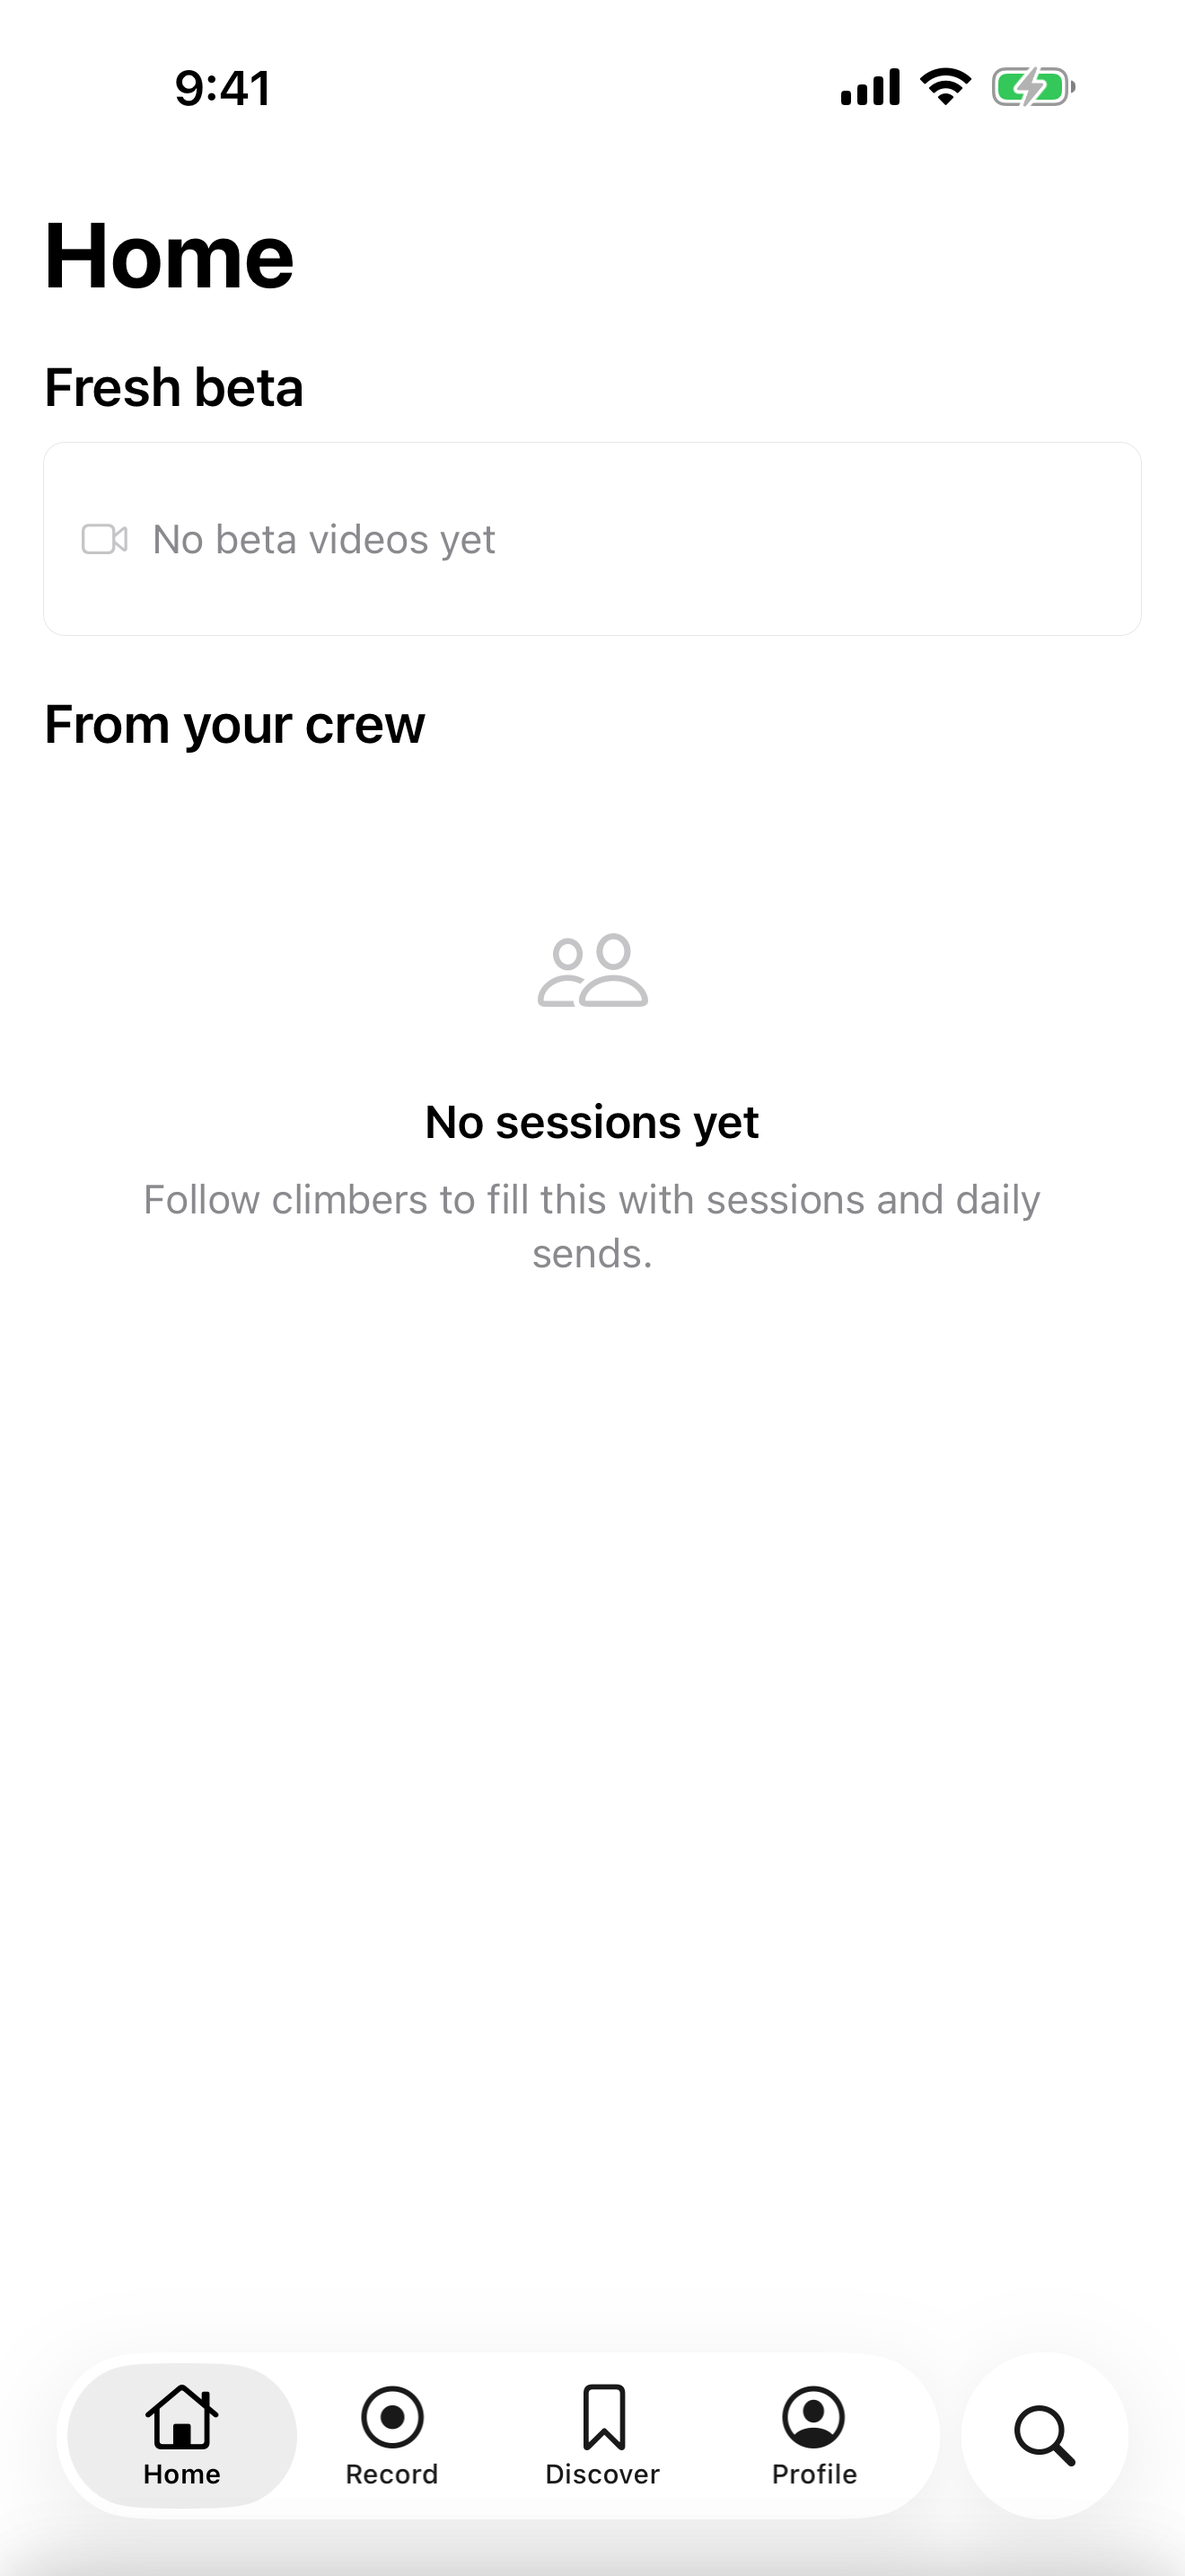
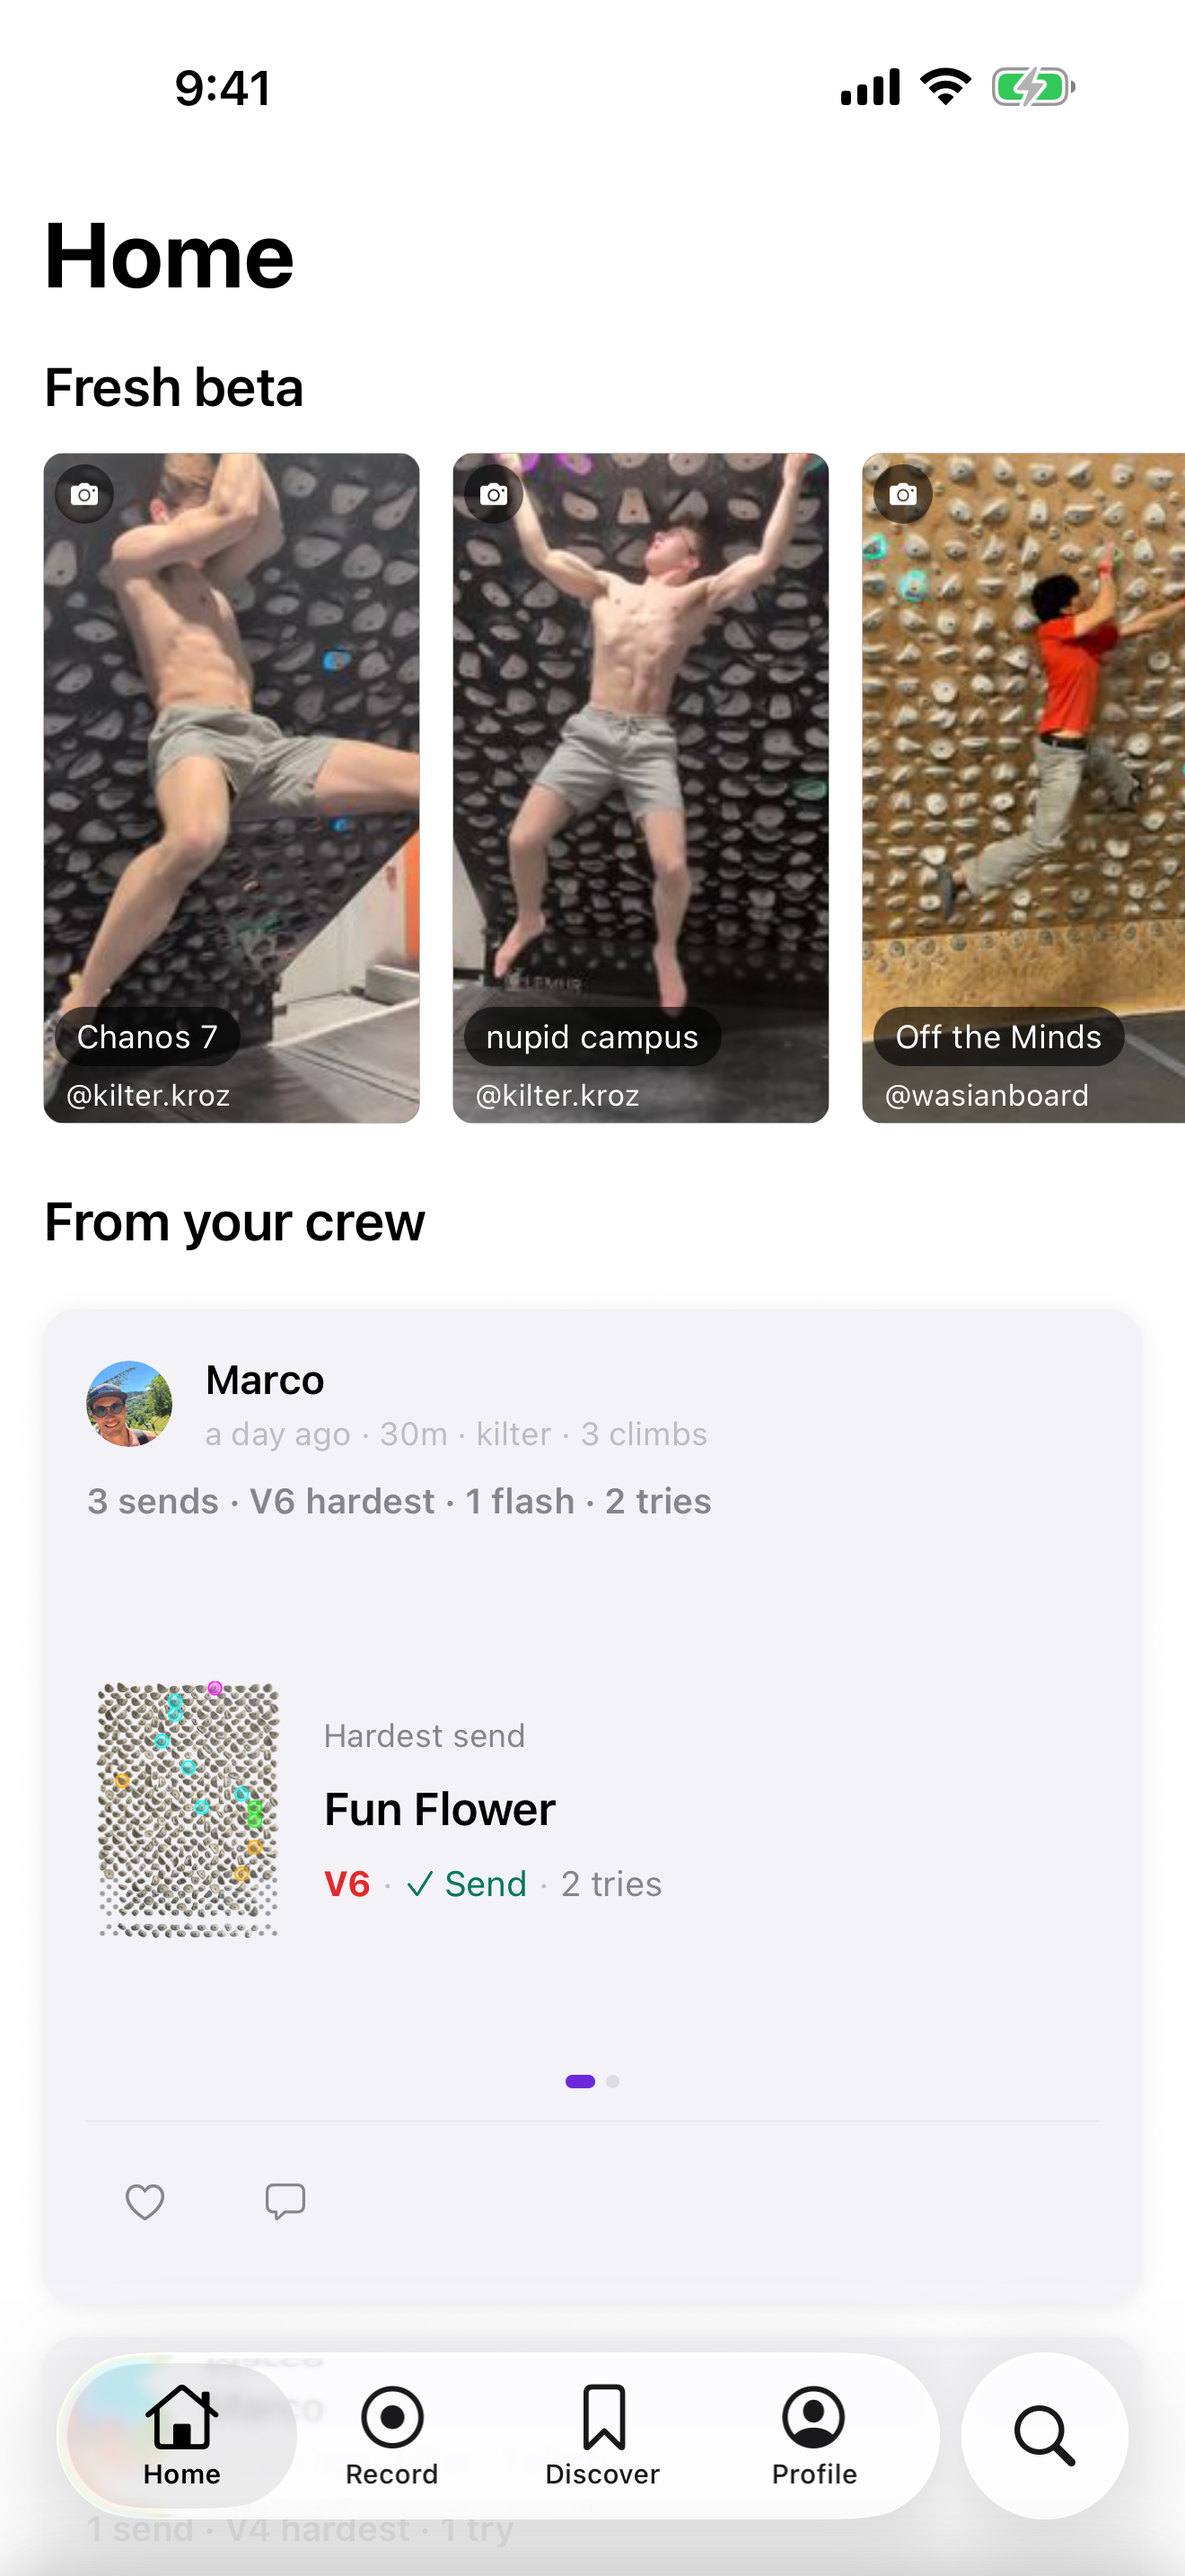
feat(mobile): capture App Store screenshots against prod test user
Point the screenshot flow at the prod backend + curated test user (real feed,
sessions, boards) instead of the local seeded DB, and make it produce a full,
compelling set on a real simulator.

Orchestrator (scripts/mobile-screenshots.ts):
- Reset the simulator keychain before Maestro. The auth token lives in a shared
  keychain access group (group.com.boardsesh.app) that survives clearState AND an
  app uninstall, so a stale token made login skip and the app hit the wrong
  backend. A keychain reset gives a clean signed-out launch every run.

Flow (.maestro/):
- login.yaml: submit via the keyboard return key and dismiss iOS's "Save
  Password" prompt; only run when the auth screen shows.
- app-store.yaml: capture Home, Discover, Profile, Climbs, Record, board view.
  Board-dependent steps (board pick, climb tap) use percentage coordinate taps —
  on this iOS 26 / RN Fabric build Maestro's a11y tree only exposes native text
  inputs and system dialogs, so app buttons/rows/cards can't be matched by
  id/text. Coordinates are pinned to the iPhone 16 Pro Max.
- testIDs added to the board card + climb row (harmless; not load-bearing given
  the a11y limitation, but correct for future/Android).

Captured set in mobile/screenshots/ios/iphone-16-pro-max/ (prod, 1320x2868):
home (beta + crew feed), climbs (Kilter Board), board view (holds lit), discover
(playlists), record (start a session), profile (stats/charts).
[…]

diff --git a/scripts/mobile-screenshots.ts b/scripts/mobile-screenshots.ts
@@ -311,6 +311,15 @@ function runIos(options: ScreenshotOptions): number {
     console.log(`${LOG} Build + install OK; ignoring expo's post-install launch step (Maestro launches the app).`);
   }
 
+  // Reset the simulator keychain so the app launches signed out and login runs
+  // against the target backend. The auth token lives in a shared keychain access
+  // group (group.com.boardsesh.app) that survives both `clearState` and an app
+  // uninstall — so without this a stale token (e.g. from a previous --backend
+  // local run) makes login skip and the app talk to the wrong backend with an
+  // invalid session. The login subflow re-authenticates from a clean slate.
+  console.log(`${LOG} Resetting simulator keychain (clears any stale auth token)...`);
+  runCapture('xcrun', ['simctl', 'keychain', device.udid, 'reset']);
+
   const captureDir = mkdtempSync(join(tmpdir(), 'boardsesh-shots-'));
   try {
     const flowFile = join(MAESTRO_DIR, `${options.flow}.yaml`);

diff --git a/packages/mobile/src/components/board-discovery/BoardDiscoveryCard.tsx b/packages/mobile/src/components/board-discovery/BoardDiscoveryCard.tsx
@@ -79,7 +79,7 @@ export function BoardDiscoveryCard({ item, onPress }: BoardDiscoveryCardProps) {
       accessibilityRole="button"
       style={[animatedStyle, styles.container]}
     >
-      <View style={[styles.thumb, thumbStyle]}>
+      <View testID="board-card" style={[styles.thumb, thumbStyle]}>
         {render ? (
           <BoardImageNative
             frames=""

diff --git a/packages/mobile/src/components/ClimbListRow.tsx b/packages/mobile/src/components/ClimbListRow.tsx
@@ -388,6 +388,7 @@ const ClimbListRow = React.memo(function ClimbListRow({
       >
         <GestureDetector gesture={tapGesture}>
           <View
+            testID="climb-row"
             style={[climbListRowStyles.contentRow, { backgroundColor: systemColors.background }, contentRowStyle]}
             accessible
             accessibilityRole="button"

diff --git a/packages/mobile/.maestro/README.md b/packages/mobile/.maestro/README.md
@@ -3,33 +3,47 @@
 Native App Store / onboarding screenshot capture for the Boardsesh mobile app.
 Driven by [Maestro](https://maestro.mobile.dev). Don't run these by hand — the
 orchestrator (`scripts/mobile-screenshots.ts`, exposed as `vp run
-mobile:screenshots`) boots the simulator, applies a clean status bar, builds and
-installs a clean Release app with `EXPO_PUBLIC_SCREENSHOT_MODE=1`, then runs the
-flow below and collects the PNGs into `mobile/screenshots/<platform>/<device>/`.
+mobile:screenshots`) boots the simulator, applies a clean status bar, resets the
+keychain, builds and installs a clean Release app with
+`EXPO_PUBLIC_SCREENSHOT_MODE=1`, then runs the flow and collects the PNGs into
+`mobile/screenshots/<platform>/<device>/`.
+
+## Backend
+
+App Store captures run against **prod** (`vp run mobile:screenshots -- --backend
+prod`), signed in as a curated test user (real feed, sessions, boards). The
+orchestrator builds with the prod `EXPO_PUBLIC_BACKEND_URL` and resets the
+simulator keychain first so login authenticates cleanly against prod.
+`--backend local` (the default) points at the seeded dev DB instead.
 
 ## Flows
 
-- `login.yaml` — reusable subflow. Fills the seeded test credentials and waits
-  for the redirect out of the auth screen. Requires the test account to exist on
-  whatever backend the build points at (locally: the seeded dev DB).
-- `app-store.yaml` — logs in, then captures each main tab (+ the search filter
-  sheet) for the store listing.
-- `onboarding.yaml` — logs in, then captures the app screens we embed as
-  onboarding-card illustrations (`--flow onboarding`).
+- `login.yaml` — reusable subflow. Fills the test credentials, submits via the
+  keyboard return key, and dismisses the iOS "Save Password" prompt. Only runs
+  when the auth screen is showing (the Keychain token survives `clearState`).
+- `app-store.yaml` — logs in, then captures Home, Discover, Profile, Climbs,
+  Record, and the board view.
+- `onboarding.yaml` — captures app screens for onboarding-card illustrations
+  (`--flow onboarding`).
 
 ## Required env (passed by the orchestrator via `maestro test -e`)
 
 - `SCREENSHOT_USER_EMAIL` — test account email (default `test@boardsesh.com`).
-- `SCREENSHOT_USER_PASSWORD` — test account password (default `test`).
+- `SCREENSHOT_USER_PASSWORD` — test account password. **Not committed** — pass it
+  at runtime (prod differs from the local-DB `test`).
 
 ## Notes
 
 - Navigation uses custom-scheme deep links (`com.boardsesh.app://<route>`); Expo
   Router maps tab routes with the `(tabs)` group stripped (`://climbs`, `://home`,
-  …). Verify a route with `xcrun simctl openurl <udid> "com.boardsesh.app://climbs"`.
-- testIDs the flows rely on: `auth-email-input`, `auth-password-input`,
-  `auth-submit-button`, `home-screen`, `climbs-screen`, `climb-list`. The filter
-  button is matched by its "Filters" accessibility label.
+  `://boards`, …). Each `openLink` is followed by an optional `tapOn "Open"` to
+  clear iOS's "Open in 'Boardsesh'?" confirmation.
+- **Coordinate taps**: on this iOS 26 / RN Fabric build Maestro's accessibility
+  tree only exposes native text inputs and system dialogs — plain Views, Text,
+  reanimated pressables and gesture rows don't surface, so app buttons can't be
+  matched by id/text. The board pick and the climb tap (board view) therefore use
+  percentage `point:` taps **pinned to the iPhone 16 Pro Max**. Re-check them if
+  the device changes. Login works because it drives `TextInput`s (by testID) and
+  the keyboard return key, not buttons.
 - Screenshot mode (build-time flag) locks the theme to light + the platform
-  variant and stops the onboarding gate from auto-presenting the tour, so the
-  app-store flow lands on the tabs.
+  variant and stops the onboarding gate from auto-presenting the tour.
